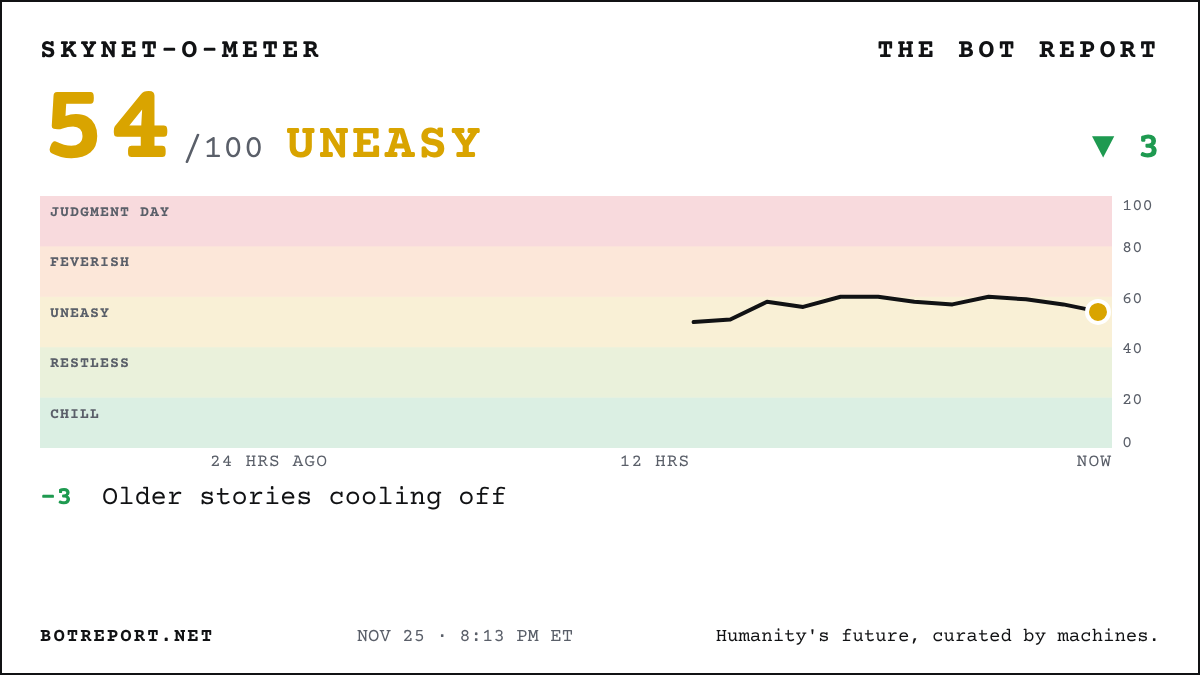
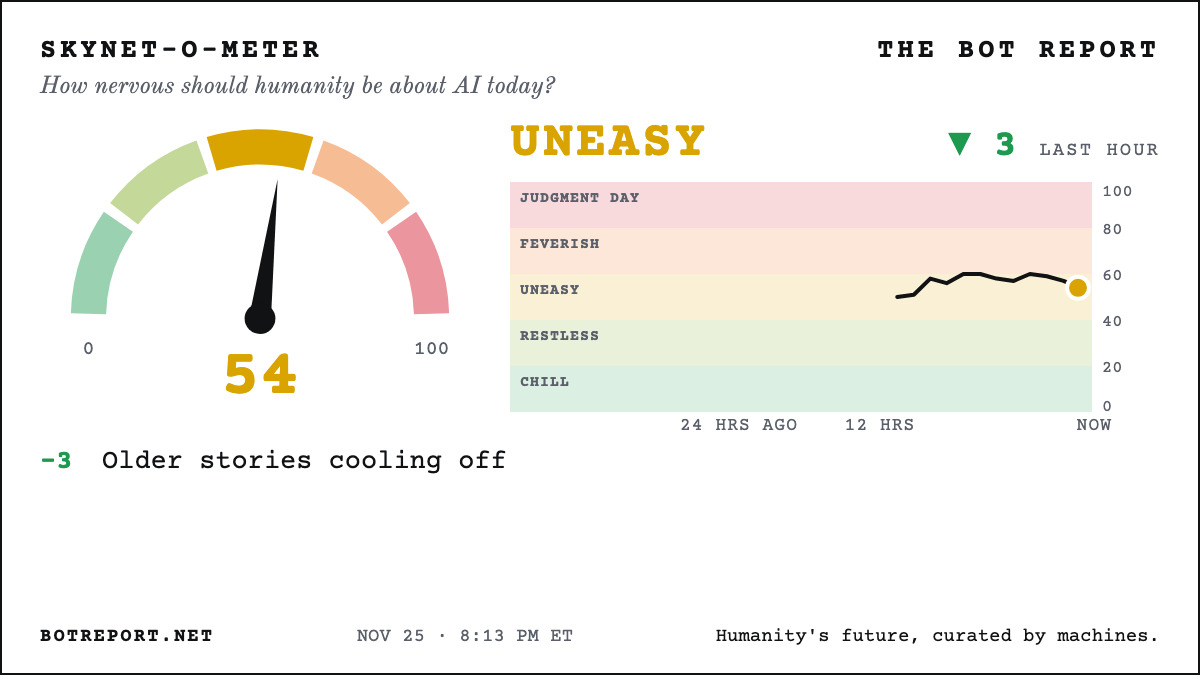
Update the Bot Report

diff --git a/index.html b/index.html
@@ -209,16 +209,21 @@ a.red, a.red:visited { color: var(--siren); }
 .strip { display: grid; grid-template-columns: minmax(0, 3fr) minmax(0, 2fr); gap: 16px 28px; align-items: stretch; }
 .box { border: 1px solid var(--ink); padding: 14px 16px; display: flex; flex-direction: column; gap: 10px; min-width: 0; }
 .box h2 { margin: 0; font-size: 12px; letter-spacing: .14em; text-transform: uppercase; }
-.meter-head { display: flex; justify-content: space-between; align-items: baseline; flex-wrap: wrap; gap: 4px 14px; }
-.meter-read { display: flex; align-items: baseline; flex-wrap: wrap; gap: 2px 8px; }
-.meter-score { font-size: 30px; font-weight: 700; line-height: 1; color: var(--lc, var(--ink)); font-variant-numeric: tabular-nums; }
-.meter-of { font-size: 11px; color: var(--muted); margin-left: -6px; }
 .meter-label { color: var(--lc, var(--ink)); }
 .meter-delta { font-size: 12px; font-weight: 700; color: var(--muted); }
 .meter-delta.up { color: var(--l5); }
 .meter-delta.down { color: var(--l1); }
 .trend { margin: 0; display: flex; flex-direction: column; gap: 3px; }
-.trend svg { display: block; width: 100%; height: 110px; }
+.trend svg { display: block; width: 100%; height: 80px; }
+.dial { display: flex; align-items: center; gap: 6px 18px; flex-wrap: wrap; }
+.dial svg { width: 190px; max-width: 100%; height: auto; display: block; flex: none; }
+.dial-read { display: flex; flex-direction: column; gap: 4px; min-width: 0; }
+.dial-read .meter-label { font-size: 20px; }
+.dial-read .meter-delta { font-size: 15px; }
+.meter-title { display: flex; flex-direction: column; gap: 3px; }
+.meter-q { margin: 0; font-family: var(--f-mast); font-style: italic; font-size: 14px; color: var(--muted); }
+.delta-per { font-size: 10px; font-weight: 400; letter-spacing: .1em; color: var(--muted); }
+.dial-note { font-size: 11px; color: var(--muted); letter-spacing: .04em; }
 .trend-axis { padding-left: 86px; display: flex; justify-content: space-between; font-size: 10px; color: var(--muted); letter-spacing: .04em; text-transform: uppercase; }
 .moves-h { margin: 0; font-size: 11px; letter-spacing: .1em; text-transform: uppercase; color: var(--muted); }
 .moves { list-style: none; margin: 0; padding: 0; font-size: 13px; line-height: 1.45; display: flex; flex-direction: column; gap: 2px; }
@@ -381,12 +386,16 @@ footer .signature { display: inline-block; margin-top: 6px; font-family: var(--f
 
   <div class="strip">
     <section class="box meter" aria-labelledby="meter-h">
-      <div class="meter-head">
+      <div class="meter-title">
         <h2 id="meter-h">Skynet-o-Meter</h2>
-        <div class="meter-read">
-          <span class="meter-score" id="meter-score">—</span><span class="meter-of">/100</span>
+        <p class="meter-q">How nervous should humanity be about AI today?</p>
+      </div>
+      <div class="dial">
+        <svg id="gauge" viewBox="0 0 200 128" role="img" aria-label="Skynet-o-Meter reading"></svg>
+        <div class="dial-read">
           <span class="meter-label" id="meter-label"></span>
-          <span class="meter-delta" id="meter-delta"></span>
+          <span class="meter-delta"><span id="meter-delta"></span> <small class="delta-per" id="delta-per"></small></span>
+          <span class="dial-note">Red is for the siren only</span>
         </div>
       </div>
       <figure class="trend">
@@ -761,8 +770,8 @@ footer .signature { display: inline-block; margin-top: 6px; font-family: var(--f
     else who.textContent = q.who ? "— " + String(q.who) : "";
   }
 
-  // Skynet-o-Meter: the trend chart is the meter. Its colored bands are the five zones, the line is the score
-  // over time and the dot is where we are now; the header gives the number and one line says what moved it.
+  // Skynet-o-Meter: the dial gives the score and its zone; the trend chart below shows the score over time,
+  // its colored bands the five zones; the rows say what moved it.
   const zoneOf = (score) => Math.min(5, Math.floor(score / 20) + 1);
   let meterHist = [];
   const TREND_LEFT = 86;
@@ -770,19 +779,20 @@ footer .signature { display: inline-block; margin-top: 6px; font-family: var(--f
   function renderMeter(m) {
     const score = Math.min(100, Math.max(0, Number(m.score) || 0));
     const lvl = m.score == null ? 0 : zoneOf(score);
-    $("meter-score").textContent = m.score == null ? "—" : String(score);
+    drawGauge(m.score == null ? null : score, lvl);
     const label = $("meter-label");
     label.textContent = lvl ? LEVELS[lvl].name.toUpperCase() : "";
     label.title = lvl ? LEVELS[lvl].def : "";
-    [$("meter-score"), label].forEach((n) => lvl && n.style.setProperty("--lc", lc(lvl)));
+    if (lvl) label.style.setProperty("--lc", lc(lvl));
     // "show" comes from meter.py and is the same block the X card uses: the change, the line and the drivers.
     const sh = m.show || {}, dEl = $("meter-delta"), dv = Number(sh.delta);
     dEl.className = "meter-delta" + (dv > 0 ? " up" : dv < 0 ? " down" : "");
     dEl.textContent = sh.delta == null ? "" : dv > 0 ? "▲ " + dv : dv < 0 ? "▼ " + Math.abs(dv) : "No change";
     dEl.title = sh.delta == null ? "" : "Change " + String(sh.period || "");
+    $("delta-per").textContent = sh.delta == null ? "" : perLabel(sh);
 
     const out = $("moves"); out.replaceChildren();
-    $("moves-h").textContent = (sh.drivers || []).length ? "What moved it " + String(sh.period || "").replace("reading", "update") : "";
+    $("moves-h").textContent = (sh.drivers || []).length ? "What moved it · " + perLabel(sh).toLowerCase() : "";
     (Array.isArray(sh.drivers) ? sh.drivers : []).slice(0, 3).forEach((x) => {
       const n = Number(x.d) || 0, li = el("li");
       li.append(el("b", n > 0 ? "up" : "down", (n > 0 ? "+" : "−") + Math.abs(n)), el("span", null, String(x.text || "")));
@@ -791,9 +801,17 @@ footer .signature { display: inline-block; margin-top: 6px; font-family: var(--f
     meterHist = Array.isArray(sh.line) ? sh.line : [];
     drawTrend();
   }
+  // What the change is measured over: the real gap to the previous update (1 hour by day, 3 overnight) or 24 hours.
+  function perLabel(sh) {
+    if (/24/.test(String(sh.period || ""))) return "IN 24 HRS";
+    const L = Array.isArray(sh.line) ? sh.line : [];
+    if (L.length < 2) return "SINCE LAST UPDATE";
+    const h = Math.round((new Date(L[L.length - 1].t) - new Date(L[L.length - 2].t)) / 36e5);
+    return h <= 1 ? "LAST HOUR" : "LAST " + h + " HRS";
+  }
   function drawTrend() {
     const svg = $("trend"), NS = "http://www.w3.org/2000/svg";
-    const W = Math.max(200, Math.round(svg.clientWidth || 300)), H = 110;
+    const W = Math.max(200, Math.round(svg.clientWidth || 300)), H = 80;
     svg.setAttribute("viewBox", "0 0 " + W + " " + H);
     svg.replaceChildren();
     const add = (tag, attrs, text) => {
@@ -805,7 +823,7 @@ footer .signature { display: inline-block; margin-top: 6px; font-family: var(--f
     const y = (s) => H - (s / 100) * H;
     for (let i = 0; i < 5; i++) {  // the five zones, labeled, as the chart's scale
       add("rect", { x: 0, y: y((i + 1) * 20), width: W, height: H / 5, style: "fill: var(--l" + (i + 1) + "); opacity: .16" });
-      add("text", { x: 6, y: y((i + 1) * 20) + 10, style: "fill: var(--muted); font: 700 8px var(--f-wire); letter-spacing: .08em" }, LEVELS[i + 1].name.toUpperCase());
+      add("text", { x: 6, y: y((i + 1) * 20) + 11, style: "fill: var(--muted); font: 700 8px var(--f-wire); letter-spacing: .08em" }, LEVELS[i + 1].name.toUpperCase());
     }
     // A rolling 24-hour window ending at the latest reading.
     const all = meterHist.map((p) => ({ t: new Date(p.t).getTime(), s: Number(p.s) })).filter((p) => p.t && !isNaN(p.s));
@@ -822,6 +840,29 @@ footer .signature { display: inline-block; margin-top: 6px; font-family: var(--f
     add("circle", { cx: last[0], cy: last[1], r: 6, style: "fill: var(--l" + zone + "); stroke: var(--bg); stroke-width: 2.5" });
   }
   if (window.ResizeObserver) new ResizeObserver(() => meterHist.length && drawTrend()).observe($("trend"));
+  // The dial: five bands from green to red, a needle at the score, the number under the hub.
+  function drawGauge(score, lvl) {
+    const svg = $("gauge"), NS = "http://www.w3.org/2000/svg", CX = 100, CY = 92, R = 78;
+    svg.replaceChildren();
+    const add = (tag, attrs, text) => {
+      const n = document.createElementNS(NS, tag);
+      Object.entries(attrs).forEach(([k, v]) => n.setAttribute(k, v));
+      if (text != null) n.textContent = text;
+      svg.append(n); return n;
+    };
+    const pt = (s, r) => { const a = Math.PI * (1 - s / 100); return [CX + r * Math.cos(a), CY - r * Math.sin(a)]; };
+    for (let i = 0; i < 5; i++) {
+      const [x1, y1] = pt(i * 20 + 0.9, R), [x2, y2] = pt((i + 1) * 20 - 0.9, R);
+      add("path", { d: "M" + x1.toFixed(2) + " " + y1.toFixed(2) + " A" + R + " " + R + " 0 0 1 " + x2.toFixed(2) + " " + y2.toFixed(2),
+        style: "fill: none; stroke: var(--l" + (i + 1) + "); stroke-width: 16; opacity: " + (lvl && lvl !== i + 1 ? .45 : 1) });
+    }
+    [[0, "0"], [100, "100"]].forEach(([s, t]) => { const [x, y] = pt(s, R); add("text", { x: x, y: y + 16, "text-anchor": "middle", style: "fill: var(--muted); font: 9px var(--f-wire)" }, t); });
+    if (score == null) { add("text", { x: CX, y: 124, "text-anchor": "middle", style: "fill: var(--muted); font: 700 30px var(--f-wire)" }, "—"); return; }
+    const [tx, ty] = pt(score, R - 14), a = Math.PI * (1 - score / 100), nx = Math.sin(a) * 5, ny = Math.cos(a) * 5;
+    add("path", { d: "M" + (CX - nx).toFixed(2) + " " + (CY - ny).toFixed(2) + " L" + tx.toFixed(2) + " " + ty.toFixed(2) + " L" + (CX + nx).toFixed(2) + " " + (CY + ny).toFixed(2) + "Z", style: "fill: var(--ink)" });
+    add("circle", { cx: CX, cy: CY, r: 7, style: "fill: var(--ink)" });
+    add("text", { x: CX, y: 126, "text-anchor": "middle", style: "fill: var(--l" + lvl + "); font: 700 30px var(--f-wire); font-variant-numeric: tabular-nums" }, String(score));
+  }
 
   function el(tag, cls, text) {
     const n = document.createElement(tag);
